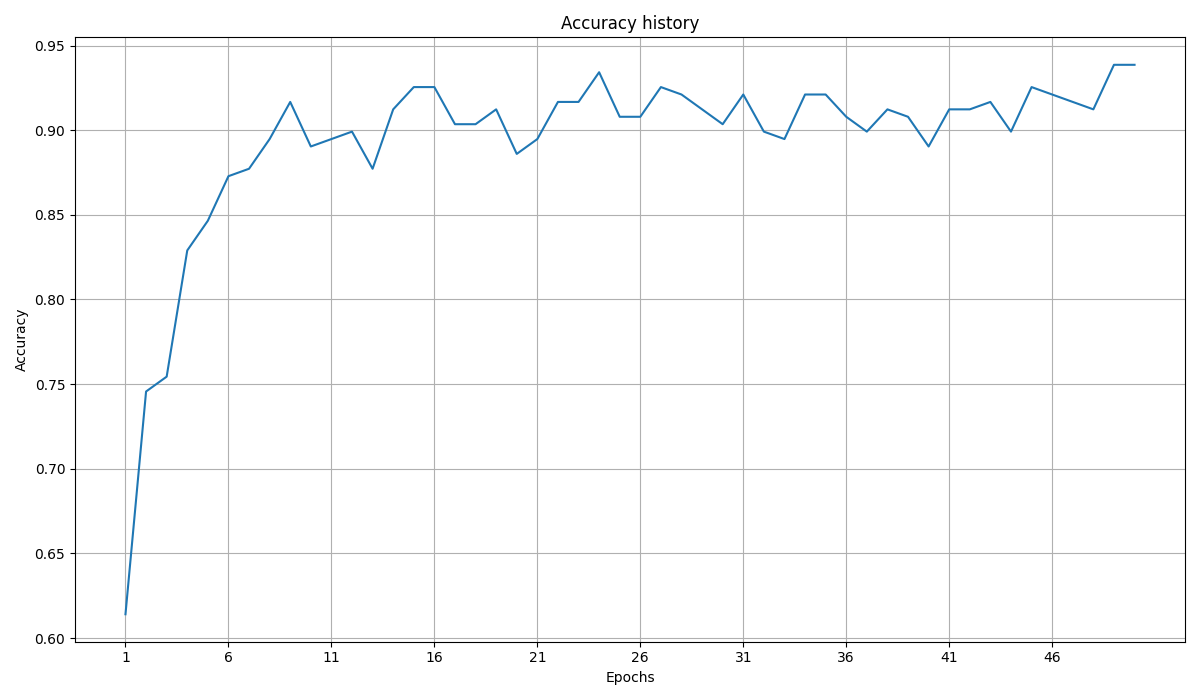
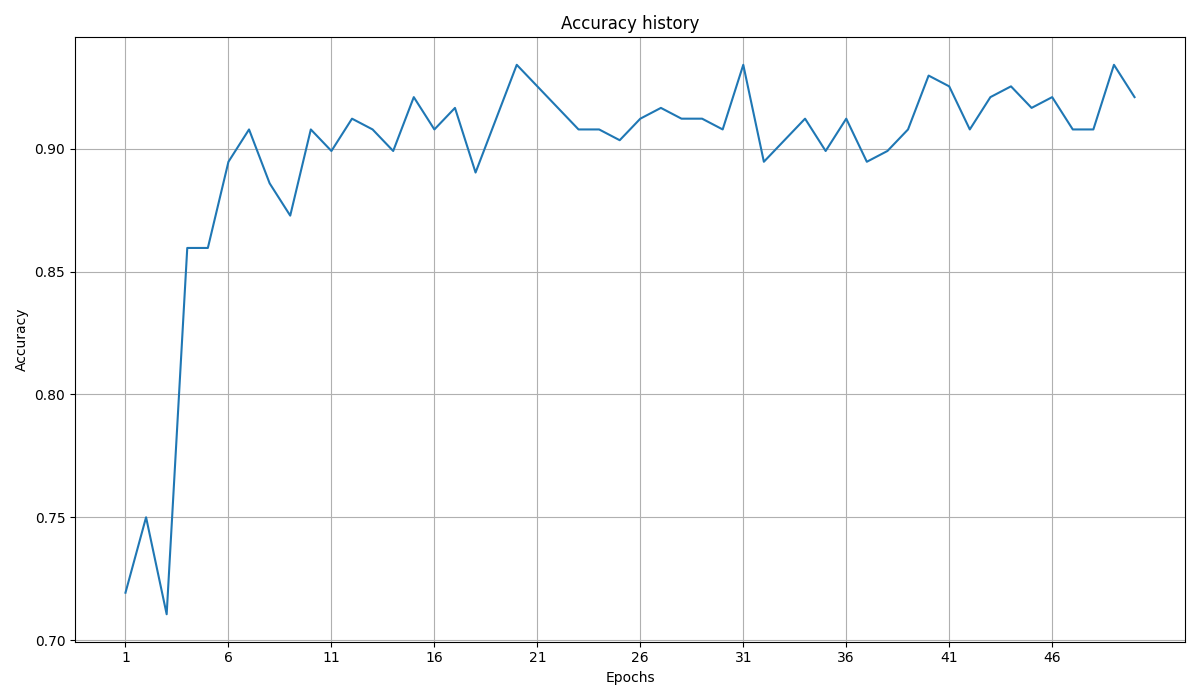
Optimizing solar detection model

diff --git a/src/utils/model/model_training.py b/src/utils/model/model_training.py
@@ -3,11 +3,13 @@ import torch.optim as optim
 from tqdm import tqdm
 import torch
 from typing import List
+from torch.amp import GradScaler, autocast
 
 def train_model(model: torch.Tensor, 
                 train_loader: torch.Tensor, 
                 num_epochs: int = 25, 
                 lr: float = 0.0001, 
+                accumulation_steps: int = 5,
                 save_path: str | None = None
                 ) -> List[float]:
     """
@@ -18,14 +20,19 @@ def train_model(model: torch.Tensor,
         train_loader: The training data DataLoader instance
         num_epochs: The number of epochs during training
         lr (float): Learning rate
+        accumulation_steps (int): Number of batches to accumulate gradients before performing an optimizer step
         save_path: A path to save the model
     
     Returns:
         List[float]: List of accuracy history during training
     """
+    decision = torch.cuda.is_available()
+    if decision:
+        scaler = GradScaler()
+
     criterion = nn.BCELoss()
     optimizer = optim.Adam(model.parameters(), lr=lr, weight_decay=0.0001)
-    scheduler = torch.optim.lr_scheduler.StepLR(optimizer, step_size=max(1, int(num_epochs/3)), gamma=0.5)
+    scheduler = torch.optim.lr_scheduler.StepLR(optimizer, step_size=max(1, int(num_epochs/3)), gamma=0.8)
     history = []
 
     for epoch in range(num_epochs):
@@ -34,19 +41,35 @@ def train_model(model: torch.Tensor,
         correct = 0
         total = 0
 
-        for data, labels in tqdm(train_loader):
-            optimizer.zero_grad()
+        optimizer.zero_grad()
+        for i, (data, labels) in enumerate(tqdm(train_loader)):
+            if decision:
+                with autocast():
+                    outputs = model(data)
+                    loss = criterion(outputs.view(-1), labels.float())
+                scaler.scale(loss).backward()
 
-            outputs = model(data)
-            loss = criterion(outputs.view(-1), labels.float())
-            loss.backward()
-            optimizer.step()
+                if (i + 1) % accumulation_steps == 0 or (i + 1) == len(train_loader):
+                    scaler.step(optimizer)
+                    scaler.update()
+            else:
+                outputs = model(data)
+                loss = criterion(outputs.view(-1), labels.float())
 
-            running_loss += loss.item()
+                loss = loss /accumulation_steps
+                loss.backward()
+            
+                if (i + 1) % accumulation_steps == 0 or (i + 1) == len(train_loader):
+                    optimizer.step()
+                    optimizer.zero_grad()
+
+            running_loss += loss.item() * accumulation_steps
 
             predicted = outputs.squeeze() > 0.5
             correct += (predicted == labels).sum().item()
             total += labels.size(0)
+
+            del loss, outputs
 
         avg_loss = running_loss / len(train_loader)
         accuracy = correct / total

diff --git a/src/utils/model/data_preparation.py b/src/utils/model/data_preparation.py
@@ -189,8 +189,8 @@ def prepare_from_csv_and_dir(csv_file: str,
 
     train_combined, test_combined = ConcatDataset(train), ConcatDataset(test)
 
-    train_loader = DataLoader(train_combined, batch_size=batch_size, shuffle=True)
-    test_loader = DataLoader(test_combined, batch_size=batch_size, shuffle=False)
+    train_loader = DataLoader(train_combined, batch_size=batch_size, shuffle=True, pin_memory=torch.cuda.is_available())
+    test_loader = DataLoader(test_combined, batch_size=batch_size, shuffle=False, pin_memory=torch.cuda.is_available())
     
     y_combined = pd.concat([y_test] * data_multiplier, ignore_index=True)
     return train_loader, test_loader, y_combined.tolist()

diff --git a/train_solar_detection.py b/train_solar_detection.py
@@ -4,11 +4,11 @@ from config.config import BaseConfig as config
 if __name__ == "__main__":
     generate_model(config.LOCATION_CSV_FILE,
                    config.ROOFS_DIR,
-                   2,
+                   4,
                    config.SOLAR_ROOF_MODEL,
                    config.SOLAR_ROOF_METRICS_DIR,
                    2,
                 #    (768, 1440),
-                   learning_rate=0.0001,
-                   batch_size=32
+                   learning_rate=0.001,
+                   batch_size=2
                    )

diff --git a/src/utils/model/model_prediction.py b/src/utils/model/model_prediction.py
@@ -25,8 +25,9 @@ def predict(model: Tensor, dataloader: DataLoader, model_path: str) -> List[int]
     with torch.no_grad():
         for image in tqdm(dataloader):
             outputs = model(image)
-            predicted = (outputs.squeeze() > 0.5).int()
-            predictions.extend(predicted.tolist())
+            outputs = outputs.detach()
+            pred = (outputs.squeeze() > 0.5).int()
+            predictions.extend(pred.tolist())
 
     return predictions
 

diff --git a/create_roof_detector.py b/create_roof_detector.py
@@ -9,7 +9,7 @@ if __name__ == "__main__":
         model_path=config.ROOF_MODEL, 
         metrics_dir=config.ROOF_METRICS_DIR,
         enhance_val=3,
-        learning_rate=0.0001,
+        learning_rate=0.001,
         resize_val=(128, 128)
         )
 
